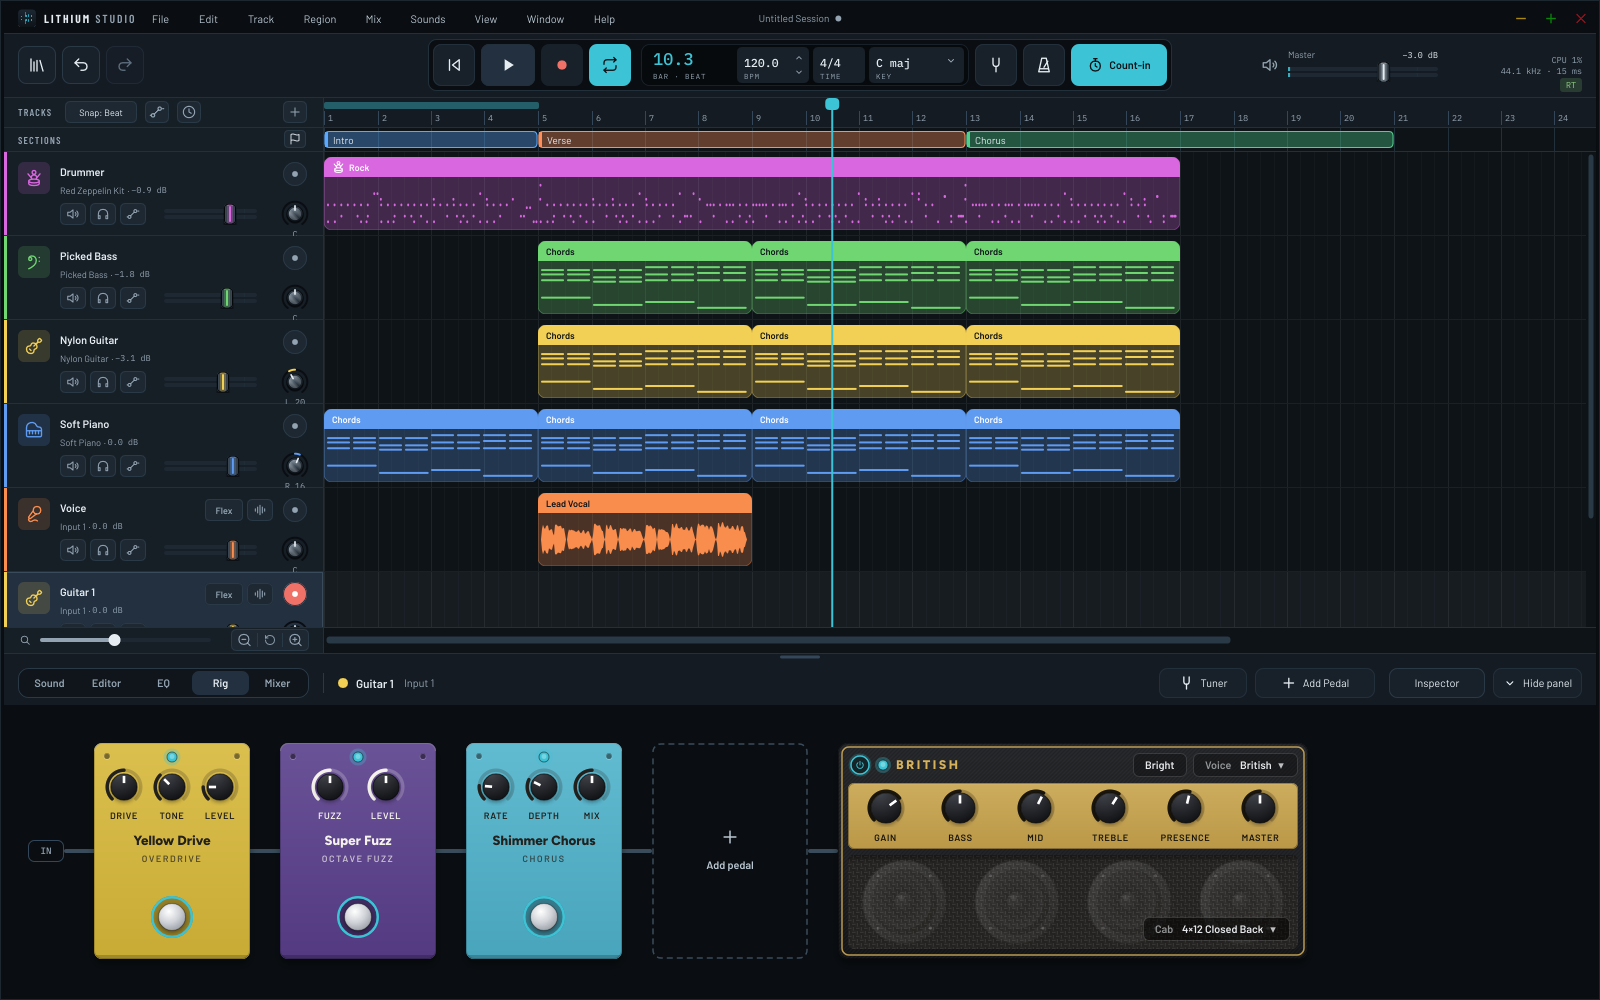
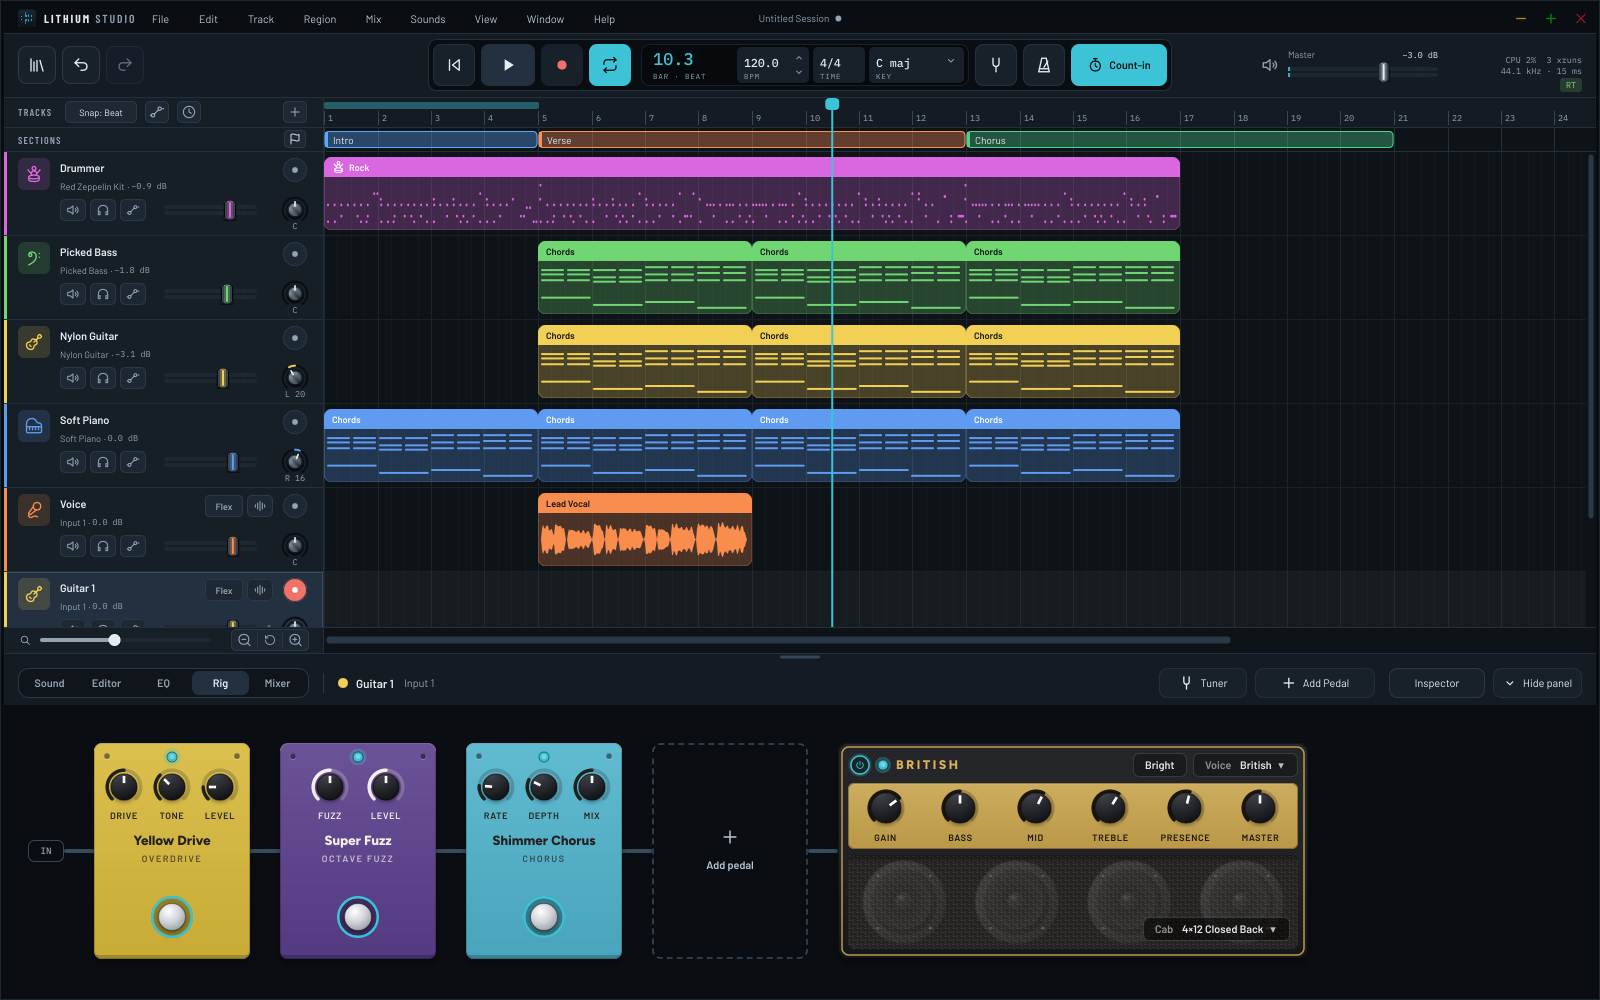
FIX(ui): Fix track list not redrawing after a move; center track header controls
Move Track Up/Down (and its undo/redo) left the track list showing the
old order until something else changed. Edit::moveTrack reorders the
Edit tree's own children, and valueTreeChildOrderChanged passed an empty
child to classifyChange, which at the Edit level reads as Tracktion's
"last changed" time stamp: the move reached the UI as no change at all.
It now passes the child that moved, so a reordered track is classified
like an added or removed one (tracks + regions).

The pan value under the track header's pan knob was clipped by the
bottom of compact (84 px) tracks. The header's controls are now one
block centered top to bottom, with an even gap above and below on
compact, tall and zoomed tracks, and the pan value sits a little higher
in the knob's empty bottom margin. When automation is shown, the block
is centered in the track height without the automation picker's extra
row, so it doesn't move when automation is turned on or off.

diff --git a/src/ui/arrangement/TrackHeader.cpp b/src/ui/arrangement/TrackHeader.cpp
@@ -1,4 +1,5 @@
 #include "ui/arrangement/TrackHeader.h"
+#include "ui/arrangement/ArrangementLayout.h"
 #include "ui/widgets/PaintProbe.h"
 #include "ui/theme/Fonts.h"
 #include "ui/theme/LithiumLookAndFeel.h"
@@ -17,16 +18,18 @@ using namespace tokens;
 
 namespace
 {
-    // The header's layout (see the picture in TrackHeader.h).
+    // The header's layout (see the picture in TrackHeader.h). The rows are
+    // one block, centred top to bottom in the track; the y values below are
+    // measured from the block's top.
     constexpr int edgeWidth = 3;          // the track-colour edge on the left
-    constexpr int topPadding = 10;
+    constexpr int contentHeight = 71;     // from the top of the icon tile and arm button to the pan setting's baseline
     constexpr int tileSize = 32;          // the icon tile
     constexpr int tileGap = 10;           // between the tile and the rows beside it
     constexpr int topRowHeight = 24;      // name, Flex, arm
     constexpr int nameHeight = 20;        // the name sits at the top of that row...
-    constexpr int soundRowY = 31;         // ...right above sound · dB (measured from the top)
+    constexpr int soundRowY = 21;         // ...right above sound · dB
     constexpr int soundRowHeight = 14;
-    constexpr int bottomRowY = 51;        // the buttons, volume and pan
+    constexpr int bottomRowY = 41;        // the buttons, volume and pan
     constexpr int bottomRowHeight = 22;
     constexpr int smallButtonWidth = 26;  // Mute, Solo, Monitor, Automation
     constexpr int smallButtonGap = 4;
@@ -34,7 +37,7 @@ namespace
     constexpr int armSize = 24;   // the arm button: as wide as the pan knob's ring (not its whole box), so they look the same size
     constexpr int flexWidth = 38, flexHeight = 22;   // as tall as the Monitor button beside it
     constexpr int panValueWidth = 36, panValueHeight = 12;   // the pan knob's setting, under it
-
+    constexpr int panValueLift = 4;   // ...raised into the knob box's empty bottom (below the skirt, between the ring's ends)
     // The text a slider's value bubble shows while it's dragged.
     juce::String panText (double pan)
     {
@@ -231,6 +234,7 @@ void TrackHeader::update (const TrackInfo& t, bool isSelected)
         automationTargetAutomated = isAutomated;
     }
 
+    const bool automationToggled = t.automationShown != info.automationShown;   // resized() centres the controls above the picker
     info = t;
     selected = isSelected;
 
@@ -276,7 +280,7 @@ void TrackHeader::update (const TrackInfo& t, bool isSelected)
     clipLight.setVisible (t.kind == TrackKind::audio && t.armed);
 
     if (wasAudio != monitorButton.isVisible() || hadClipLight != clipLight.isVisible()
-         || hadDownload != downloadButton.isVisible())
+         || hadDownload != downloadButton.isVisible() || automationToggled)
         resized();
     updateAccessibleNames();
 
@@ -580,21 +584,26 @@ void TrackHeader::paint (juce::Graphics& g)
 
 void TrackHeader::resized()
 {
-    // Laid out from the top: when zooming (or Tall Tracks) makes the row
-    // taller, the controls stay together and the lane gets the extra room.
+    // The controls stay together as one block, centred top to bottom with
+    // an even gap above and below, whether the track is compact, tall or
+    // zoomed. The row's 1px line at the bottom isn't part of the space, and
+    // nor is the line the automation picker adds under the block (the
+    // block stays put when automation is shown or hidden).
     // Left and right edges have the column's padding, so the tile lines up
     // with "TRACKS" above, and the arm button and pan knob sit in one column
     // with the tracks bar's "+" and the Sections row's flag button.
     const int padding = size::panelPadding;
     const int right = getWidth() - padding;
+    const int space = getHeight() - 1 - (info.automationShown ? arrangement::automationPickerHeight : 0);
+    const int y0 = juce::jmax (0, (space - contentHeight) / 2);   // the block's top
 
-    iconArea = { padding, topPadding, tileSize, tileSize };
+    iconArea = { padding, y0, tileSize, tileSize };
     const int left = iconArea.getRight() + tileGap;   // the three rows start here
 
     // Top row: name ... [Flex] [~] (arm). Flex and Monitor are audio tracks
     // only; they sit up here so the volume slider below is as long on
     // every track.
-    auto top = juce::Rectangle<int> (left, topPadding, right - left, topRowHeight);
+    auto top = juce::Rectangle<int> (left, y0, right - left, topRowHeight);
     armButton.setBounds (top.removeFromRight (roundSize).withSizeKeepingCentre (armSize, armSize));   // centred over the pan knob
     top.removeFromRight (8);
 
@@ -623,10 +632,10 @@ void TrackHeader::resized()
 
     // Middle row: sound · dB. It stops short of the pan knob, which is
     // taller than the bottom row and reaches up beside it.
-    soundArea = { left, soundRowY, right - left - roundSize - 8, soundRowHeight };
+    soundArea = { left, y0 + soundRowY, right - left - roundSize - 8, soundRowHeight };
 
     // Bottom row: [M][S][⟋] ─── volume ───  (pan)
-    auto bottom = juce::Rectangle<int> (left, bottomRowY, right - left, bottomRowHeight);
+    auto bottom = juce::Rectangle<int> (left, y0 + bottomRowY, right - left, bottomRowHeight);
     const auto bottomRow = bottom;
 
     for (auto* b : { &muteButton, &soloButton, &automationButton })
@@ -637,9 +646,11 @@ void TrackHeader::resized()
 
     // The pan knob shares the arm button's column, centred under it. Its
     // ring is as wide as the arm button; the box around it is the column.
-    // Its setting goes under it (wider than the column: "L 100").
+    // Its setting goes under it (wider than the column: "L 100"), lifted
+    // into the knob box's empty bottom (clear of the ring's ends): its
+    // baseline is the bottom of the block (contentHeight).
     pan.setBounds (bottom.removeFromRight (roundSize).withSizeKeepingCentre (roundSize, roundSize));
-    panValueArea = juce::Rectangle<int> (panValueWidth, panValueHeight).withCentre ({ pan.getBounds().getCentreX(), pan.getBottom() + panValueHeight / 2 });
+    panValueArea = juce::Rectangle<int> (panValueWidth, panValueHeight).withCentre ({ pan.getBounds().getCentreX(), pan.getBottom() + panValueHeight / 2 - panValueLift });
     bottom.removeFromRight (18);   // room for the clip light, clear of the volume's thumb
 
     // The clip light sits midway between where the meter's bars end (the

diff --git a/src/engine/AudioEngine.cpp b/src/engine/AudioEngine.cpp
@@ -722,14 +722,19 @@ private:
         addTreeChange (classifyChange (parent, child));
     }
 
-    void valueTreeChildOrderChanged (juce::ValueTree& parent, int, int) override
+    // Pass the child that moved (it's at its new index by now), as for an
+    // add or remove: an empty child would read as a property change, and on
+    // the Edit itself that's Tracktion's time stamp, so a track moved up or
+    // down (Edit::moveTrack reorders the Edit's own children), or the undo
+    // or redo of one, would reach the UI as "nothing changed".
+    void valueTreeChildOrderChanged (juce::ValueTree& parent, int, int newIndex) override
     {
-        addTreeChange (classifyChange (parent, {}));
+        addTreeChange (classifyChange (parent, parent.getChild (newIndex)));
     }
 
     /** Works out what kind of thing a change touched from where it happened
         in the session's ValueTree. `tree` is the tree whose property changed,
-        or the parent a child was added to or removed from (`child`).
+        or the parent a child was added to, removed from or moved within (`child`).
 
         The Edit's tree looks roughly like this:
 
@@ -803,7 +808,7 @@ private:
             if (t.hasType (te::IDs::EDIT))
             {
                 if (te::TrackList::isTrack (child))
-                    c.tracks = c.regions = true;   // a track added or removed (with its regions)
+                    c.tracks = c.regions = true;   // a track added, removed or moved (with its regions)
                 else if (SectionEditor::isSectionState (child))
                     c.transport = true;            // the first section added (or the last undone)
                 else if (child.isValid())
